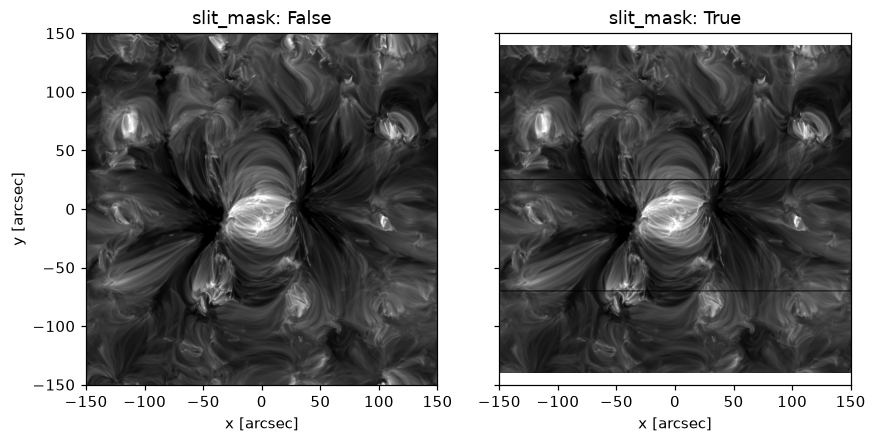
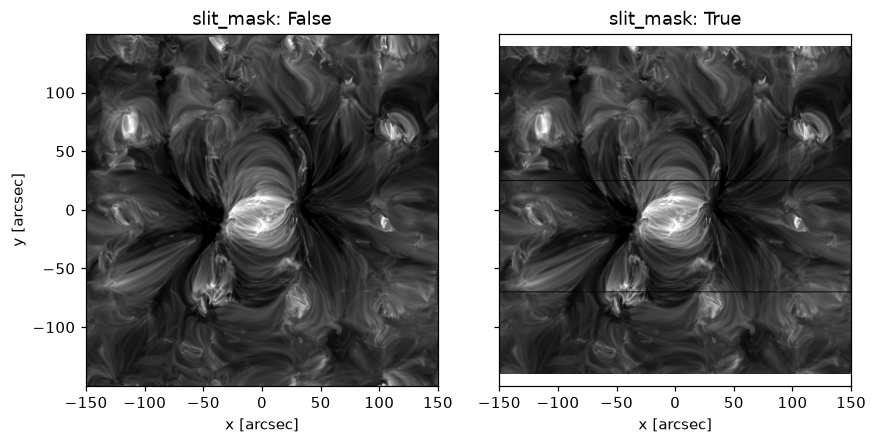
Take the slit mask figure's limits from the unmasked map

diff --git a/tools/docs_examples/make_figures.py b/tools/docs_examples/make_figures.py
@@ -262,12 +262,14 @@ def slits():
 def slit_mask():
     """The active region without and with the slit's mask."""
     fig, axes = plt.subplots(1, 2, figsize=(8, 3.9), sharey=True, layout="constrained")
-    for ax, flag in zip(axes, (False, True)):
-        image = maps("muram_ar_slit_mask", **{"simulation.slit_mask": flag})["total_dn"]
+    images = [maps("muram_ar_slit_mask", **{"simulation.slit_mask": flag})["total_dn"]
+              for flag in (False, True)]
+    for ax, flag, image in zip(axes, (False, True), images):
         show(ax, image, f"slit_mask: {flag}", cmap="gray",
              norm=PowerNorm(0.5, *np.nanpercentile(image.data, [1, 99.9])))
     axes[0].set_ylabel("y [arcsec]")
-    axes[0].set_ylim(-150, 150)
+    # The whole scene, so the masked map shows where it stops.
+    axes[0].set_ylim(extent(images[0])[2:])
     save(fig, "example-slit-mask")
 
 
